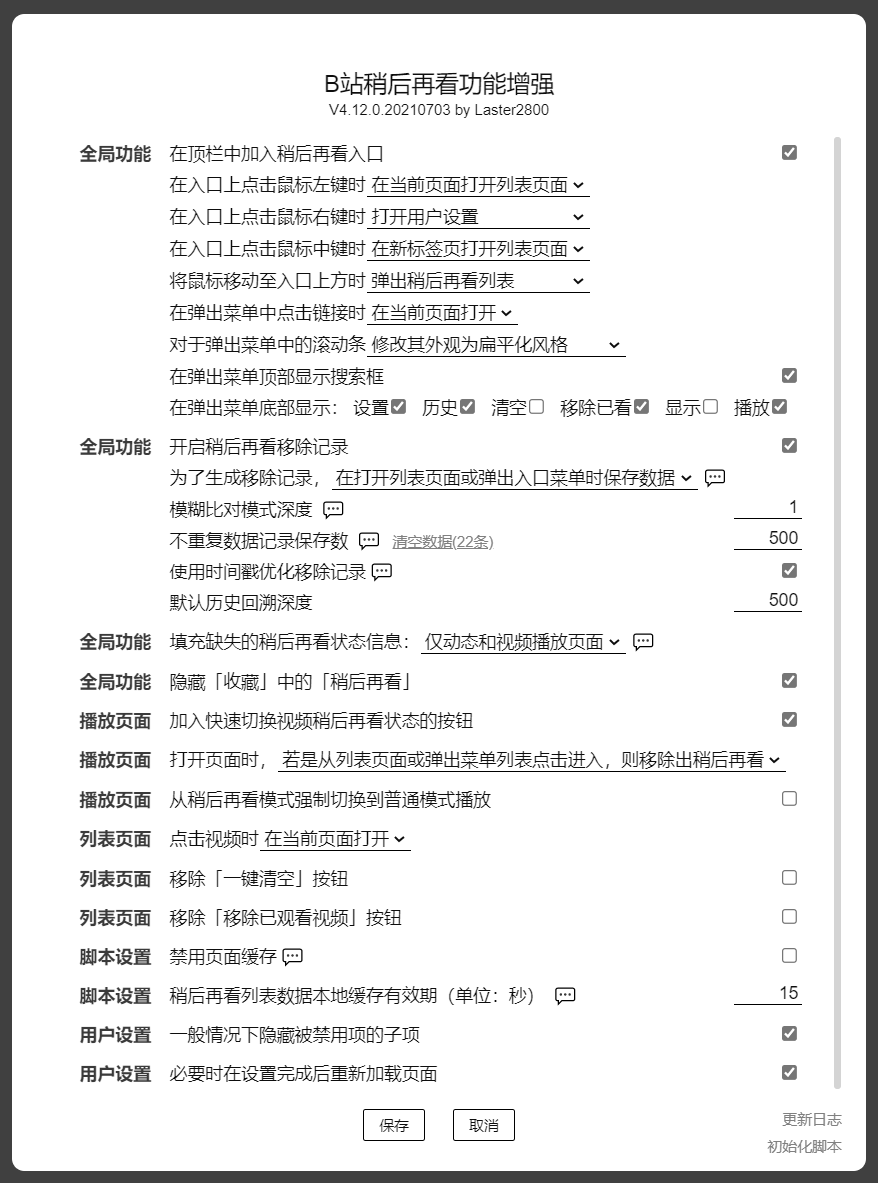
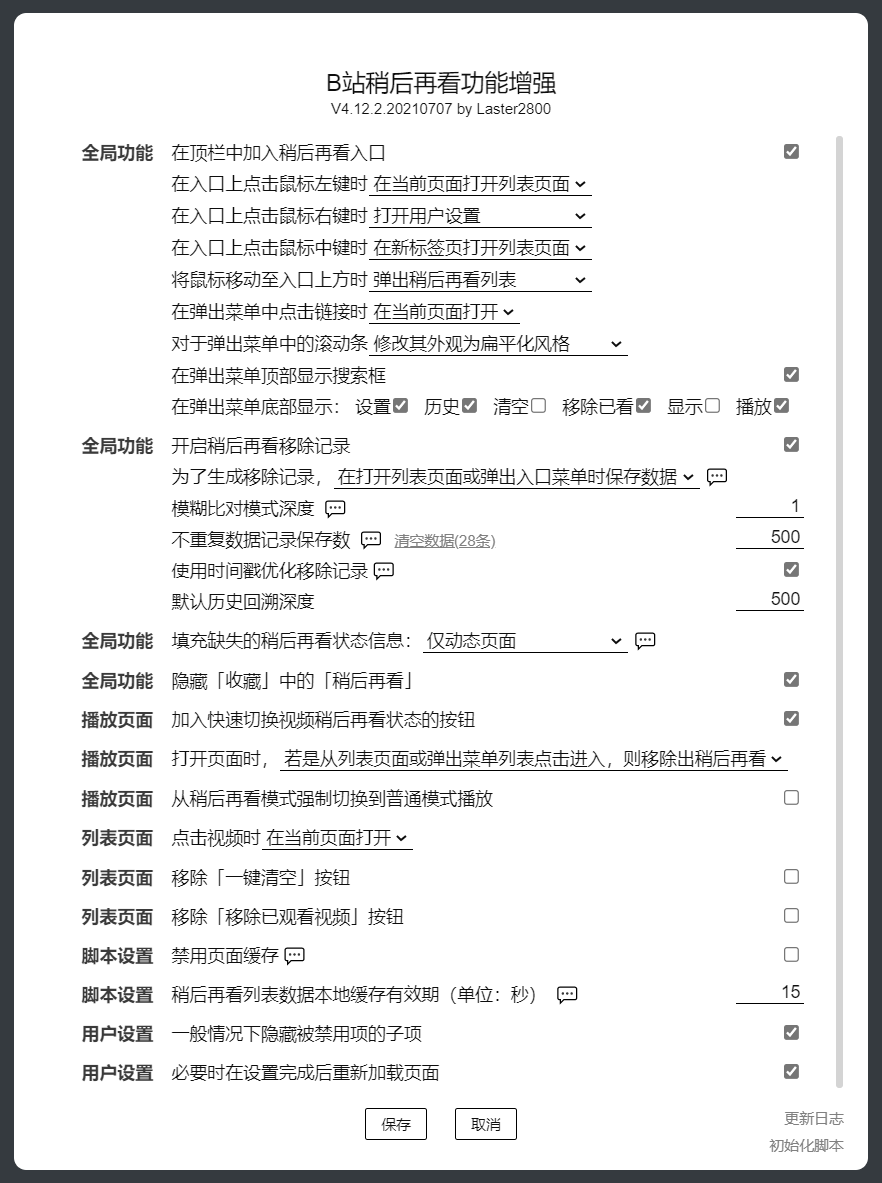
B站稍后再看功能增强 4.12.2.20210707
* 填充状态信息选项，默认值修改为「仅动态页面」。

diff --git a/script/BilibiliWatchlaterPlus/BilibiliWatchlaterPlus.js b/script/BilibiliWatchlaterPlus/BilibiliWatchlaterPlus.js
@@ -1,6 +1,6 @@
 // ==UserScript==
 // @name            B站稍后再看功能增强
-// @version         4.12.1.20210706
+// @version         4.12.2.20210707
 // @namespace       laster2800
 // @author          Laster2800
 // @description     与稍后再看功能相关，一切你能想到和想不到的功能
@@ -334,7 +334,7 @@
       removeHistorySaves: { default: 500, type: 'int', attr: 'value', manual: true, needNotReload: true, min: 10, max: 100000, configVersion: 20210628 },
       removeHistoryTimestamp: { default: true, attr: 'checked', needNotReload: true, configVersion: 20210703 },
       removeHistorySearchTimes: { default: 500, type: 'int', attr: 'value', manual: true, needNotReload: true, min: 1, max: 100000, configVersion: 20210703 },
-      fillWatchlaterStatus: { default: Enums.fillWatchlaterStatus.dynamicAndVideo, attr: 'value', configVersion: 20200819 },
+      fillWatchlaterStatus: { default: Enums.fillWatchlaterStatus.dynamic, attr: 'value', configVersion: 20200819 },
       hideWatchlaterInCollect: { default: true, attr: 'checked', configVersion: 20210322 },
       videoButton: { default: true, attr: 'checked' },
       autoRemove: { default: Enums.autoRemove.openFromList, attr: 'value', configVersion: 20210612 },
